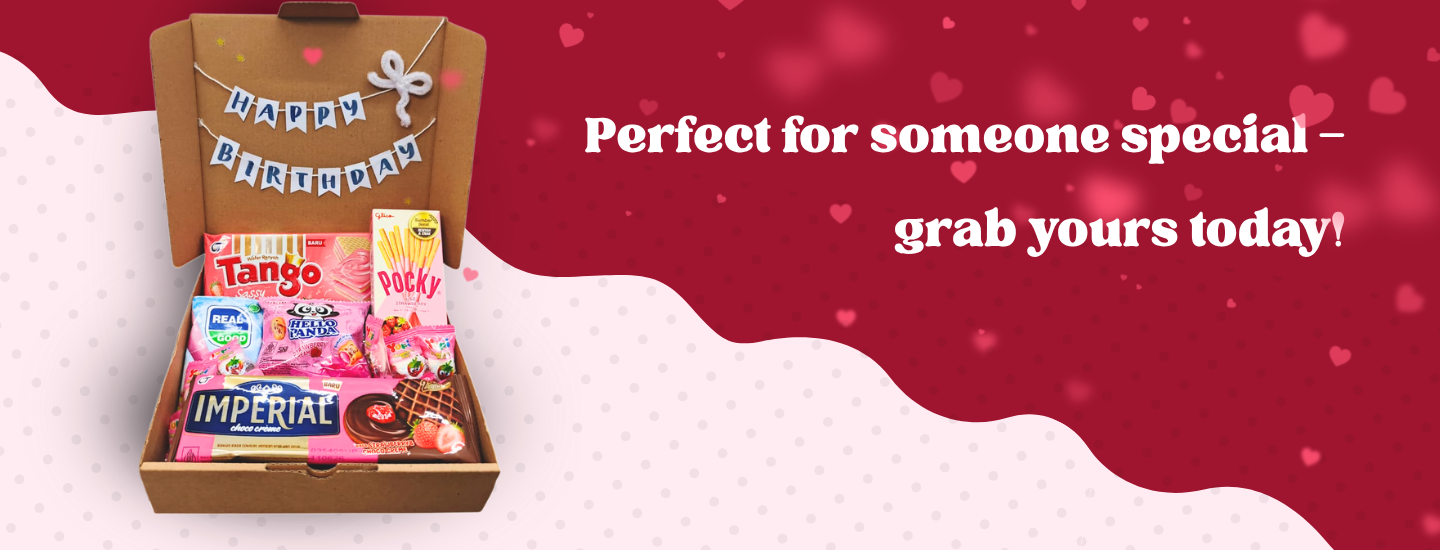
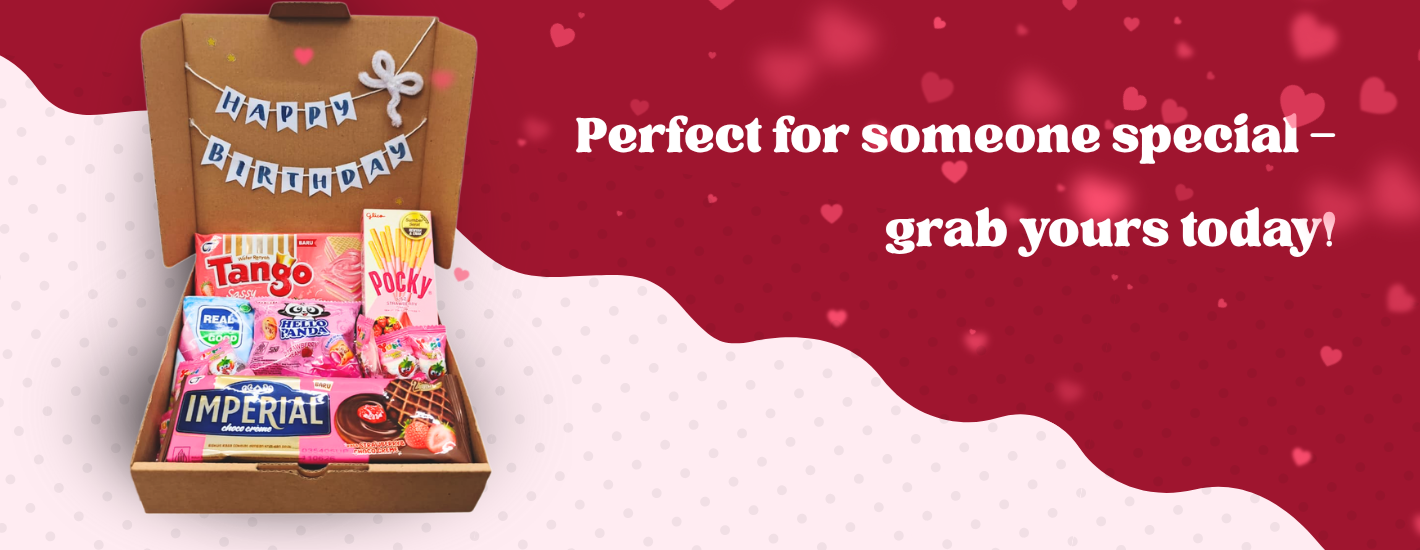
Add login and registration pages, update routing, and enhance carousel layout

diff --git a/src/pages/Admin/Kelola-pesanan.jsx b/src/pages/Admin/Kelola-pesanan.jsx
@@ -1,0 +1,68 @@
+import HeaderAdmin from "../components/header-admin"
+import { Button } from "../../components/ui/button"
+import {
+  Table,
+  TableBody,
+  TableCaption,
+  TableCell,
+  TableHead,
+  TableHeader,
+  TableRow,
+} from "@/components/ui/table"
+
+function KelolaPesanan(){
+    const orders = [
+        {
+            id: "001",
+            name: "Birthday Hampers-Blue",
+            stock: 8,
+            price: 25000,
+            status: "active"
+        },
+        {
+            id: "002",
+            name: "Birthday Hampers-Pink",
+            stock: 8,
+            price: 25000,
+            status: "active"
+        },
+    ]
+
+    return(
+        <div className="static top-0 pt-32 h-[1920px] w-screen left-0 bg-[url(/images/Background.png)]">
+            <HeaderAdmin/>
+            <div className="flex flex-col w-[1096px] mr-auto ml-auto">
+                <div className="flex flex-row items-center">
+                    <h3 className="font-bold">Kelola Pesanan</h3>
+                </div>
+                {/* Tabel */}
+                <div className="w-[1096px] min-h-[100px] h-auto bg-[#9F152F] rounded-[12px] mt-5 p-10">
+                    <Table className="rounded-[12px] bg-white">
+                        <TableHeader>
+                            <TableRow>
+                            <TableHead className="w-[100px] text-center">ID Pesanan</TableHead>
+                            <TableHead className="text-center">Nama produk</TableHead>
+                            <TableHead className="text-center">Jumlah Stok</TableHead>
+                            <TableHead className="text-center">Harga jual</TableHead>
+                            <TableHead className="text-center">Status Penjualan</TableHead>
+                            </TableRow>
+                        </TableHeader>
+                        <TableBody>
+                            {orders.map((orders) => (
+                                <TableRow>
+                                    <TableCell className="font-medium">{orders.id}</TableCell>
+                                    <TableCell>{orders.name}</TableCell>
+                                    <TableCell>{orders.stock}</TableCell>
+                                    <TableCell>{orders.price}</TableCell>
+                                    <TableCell className="text-center">{orders.status}</TableCell>
+                                </TableRow>
+                            ))}
+                        </TableBody>
+                    </Table>
+                </div>
+            </div>
+        </div>
+    )
+}
+
+export default KelolaPesanan

diff --git a/src/pages/RegistPage.jsx b/src/pages/RegistPage.jsx
@@ -1,0 +1,45 @@
+import { useNavigate } from "react-router-dom";
+import { Button } from "../components/ui/button";
+import { Input } from "../components/ui/input";
+import Header from "./components/header";
+
+function RegistPage() {
+    const navigate = useNavigate()
+
+    const handleLogin = () => {
+        navigate("/login")
+    }
+
+    return(
+        <div className="static top-0 left-0 mt-10 bg-[url(/images/Background.png)] w-screen">
+            <Header/>
+            <div className="flex flex-row top-0">
+                <img src="/images/registImg.png" alt="" />
+                <div className="flex flex-col mt-20 ml-[80px]">
+                    <p className="flex text-2xl font-bold items-start">Register</p>
+                    <hr />
+                    <div className="flex flex-col items-start mt-[26px]">
+                        <p>Username</p>
+                        <Input id="username" className="w-[409px] h-[47px] bg-[#D9D9D9] shadow-xl/20" />
+                    </div>
+                    <div className="flex flex-col items-start mt-[10px]">
+                        <p>Email</p>
+                        <Input id="email" type="password" className="w-[409px] h-[47px] bg-[#D9D9D9] shadow-xl/20"/>
+                    </div>
+                    <div className="flex flex-col items-start mt-[10px]">
+                        <p>Password</p>
+                        <Input id="password" type="password" className="w-[409px] h-[47px] bg-[#D9D9D9] shadow-xl/20"/>
+                    </div>
+                    <div className="flex flex-col items-start mt-[10px]">
+                        <p>Confirm Password</p>
+                        <Input id="password" type="password" className="w-[409px] h-[47px] bg-[#D9D9D9] shadow-xl/20"/>
+                    </div>
+                    <Button className="!bg-[#F4476D] mt-[59px] w-[409px] h-[47px] bg-[#D9D9D9] shadow-xl/20">REGISTER</Button>
+                    <p className="mt-[35px]">Already have account? <a onClick={() => handleLogin()}>Sign In</a></p>
+                </div>
+            </div>
+        </div>
+    )
+}
+
+export default RegistPage

diff --git a/src/pages/LoginPage.jsx b/src/pages/LoginPage.jsx
@@ -1,0 +1,41 @@
+import { useNavigate } from "react-router-dom"
+import { Button } from "../components/ui/button"
+import { Input } from "../components/ui/input"
+import Header from "./components/header"
+
+function LoginPage(){
+    const navigate = useNavigate()
+
+    const handleRegist = () => {
+        navigate("/register")
+    }
+
+    return(
+        <div className="static top-0 left-0 mt-10 bg-[url(/images/Background.png)] w-screen">
+            <Header/>
+            <div className="flex flex-row top-0">
+                <img src="/images/loginImg.png" alt="" />
+                <div className="flex flex-col mt-20 ml-[80px]">
+                    <p className="flex text-2xl font-bold items-start">Login</p>
+                    <hr />
+                    <div className="flex flex-col items-start mt-[26px]">
+                        <p>Username</p>
+                        <Input id="username" className="w-[409px] h-[47px] bg-[#D9D9D9] shadow-xl/20" />
+                    </div>
+                    <div className="flex flex-col items-start mt-[26px]">
+                        <p>Password</p>
+                        <Input id="password" type="password" className="w-[409px] h-[47px] bg-[#D9D9D9] shadow-xl/20"/>
+                    </div>
+                    <Button className="!bg-[#F4476D] mt-[50px] w-[409px] h-[47px] bg-[#D9D9D9] shadow-xl/20">LOGIN</Button>
+                    <div className="flex flex-col items-center mt-[26px]">
+                        <p>or Sign In with</p>
+                        <Button className="!bg-[#FF7070] flex flex-row justify-center items-center mt-[26px] w-[200px] h-[47px] shadow-xl/20"><img src="/logo/icon_google.png" alt="" /> Google</Button>
+                        <p className="mt-[35px]">New Here? <a onClick={() => handleRegist()}>Create new account</a></p>
+                    </div>
+                </div>
+            </div>
+        </div>
+    )
+}
+
+export default LoginPage

diff --git a/src/pages/components/header.jsx b/src/pages/components/header.jsx
@@ -8,6 +8,14 @@ function Header(){
         navigate("/")
     }
 
+    const handleLogin = () => {
+        navigate("/login")
+    }
+
+    const handleRegist = () => {
+        navigate("/register")
+    }
+
     const scrollTo = (id) => {
         const element = document.getElementById(id)
         const navbarHeight = 90
@@ -32,8 +40,8 @@ function Header(){
                     <Button className="!bg-transparent !text-white hover:!decoration-underline" >How to Buy</Button>
                     <Button className="!bg-transparent !text-white hover:!decoration-underline" >About Us</Button>
                     <Button className="!bg-transparent !text-white hover:!decoration-underline" >Contact Us</Button>
-                    <Button className="text-black" >Sign In</Button>
-                    <Button className="text-black" >Sign Up</Button>
+                    <Button className="text-black" onClick={() => handleLogin()}>Sign In</Button>
+                    <Button className="text-black" onClick={() => handleRegist()}>Sign Up</Button>
                 </div>
             </div>
         </div>

diff --git a/src/components/ui/input.jsx b/src/components/ui/input.jsx
@@ -1,0 +1,24 @@
+import * as React from "react"
+
+import { cn } from "@/lib/utils"
+
+function Input({
+  className,
+  type,
+  ...props
+}) {
+  return (
+    <input
+      type={type}
+      data-slot="input"
+      className={cn(
+        "file:text-foreground placeholder:text-muted-foreground selection:bg-primary selection:text-primary-foreground dark:bg-input/30 border-input h-9 w-full min-w-0 rounded-md border bg-transparent px-3 py-1 text-base shadow-xs transition-[color,box-shadow] outline-none file:inline-flex file:h-7 file:border-0 file:bg-transparent file:text-sm file:font-medium disabled:pointer-events-none disabled:cursor-not-allowed disabled:opacity-50 md:text-sm",
+        "focus-visible:border-ring focus-visible:ring-ring/50 focus-visible:ring-[3px]",
+        "aria-invalid:ring-destructive/20 dark:aria-invalid:ring-destructive/40 aria-invalid:border-destructive",
+        className
+      )}
+      {...props} />
+  );
+}
+
+export { Input }

diff --git a/src/pages/components/footer.jsx b/src/pages/components/footer.jsx
@@ -1,0 +1,20 @@
+import { Button } from "../../components/ui/button"
+
+function Footer(){
+    return(
+        <div className="">
+            <footer className="flex flex-col items-center justify-center mt-10 h-[170px] w-full bg-[#9f152f] text-white">
+                <h2 className="font-bold">Find us on :</h2>
+                <div className="flex flex-row gap-3 mt-2">
+                <Button className="!bg-transparent">Instagram</Button>
+                <Button className="!bg-transparent">Twitter</Button>
+                <Button className="!bg-transparent">Facebook</Button>
+                <Button className="!bg-transparent">Shopee</Button>
+                </div>
+                <h3 className="mt-2">Bingkizz.in @ 2025</h3>
+            </footer>
+        </div>
+    )
+}
+
+export default Footer

diff --git a/src/pages/components/hero-section.jsx b/src/pages/components/hero-section.jsx
@@ -10,13 +10,13 @@ import Autoplay from "embla-carousel-autoplay"
 
 function HeroSection(){
     return(
-        <div id="HERO" className="flex mt-22 left-0 max-w-screen">
+        <div id="HERO" className="flex mt-22 content-center w-full">
             <Carousel plugins={[
                 Autoplay({
                     delay: 3000,
                 })
             ]}>
-                <CarouselContent className="max-w-screen">
+                <CarouselContent className="w-full">
                     <CarouselItem><img src="/carousel/Carousel-1.png" alt="" /></CarouselItem>
                     <CarouselItem><img src="/carousel/Carousel-2.png" alt="" /></CarouselItem>
                     <CarouselItem><img src="/carousel/Carousel-3.png" alt="" /></CarouselItem>

diff --git a/src/routes/AppRouter.jsx b/src/routes/AppRouter.jsx
@@ -3,12 +3,17 @@ import DetailPage from "../pages/DetailPage";
 import BingkizzinWeb from "../pages/BingkizzinWeb";
 import DashboardAdmin from "../pages/Admin/Dashboard-Admin";
 import KelolaProduk from "../pages/Admin/Kelola-produk";
+import LoginPage from "../pages/LoginPage";
+import RegistPage from "../pages/RegistPage";
 
 function AppRouter() {
   return (
     <Router>
       <Routes>
         <Route path="/" element={<BingkizzinWeb />} />
+        <Route path="/login" element={<LoginPage/>}/>
+        <Route path="/register" element={<RegistPage/>}/>
+
         <Route path="/detail-product" element={<DetailPage />} />
         <Route path="/dashboard-admin" element={<DashboardAdmin/>}/>
         <Route path="/kelola-produk" element={<KelolaProduk/>}/>

diff --git a/src/pages/BingkizzinWeb.jsx b/src/pages/BingkizzinWeb.jsx
@@ -1,15 +1,18 @@
+import { Button } from "../components/ui/button"
+import Footer from "./components/footer"
 import Header from "./components/header"
 import HeroSection from "./components/hero-section"
 import Products from "./components/products"
 
-
-
 function BingkizzinWeb(){
     return(
-        <div className="static top-0 h-[1920px] max-w-screen left-0 bg-[url(/images/Background.png)]">
+        <div className="flex flex-col w-full min-h-screen bg-[url(/images/Background.png)] bg-cover bg-no-repeat">
             <Header/>
-            <HeroSection/>
-            <Products/>
+            <main className="flex-grow">
+                <HeroSection/>
+                <Products/>
+            </main>
+            <Footer/>
         </div>
     )
 }

diff --git a/src/components/ui/carousel.jsx b/src/components/ui/carousel.jsx
@@ -113,7 +113,7 @@ function CarouselContent({
       <div
         className={cn(
           "flex",
-          orientation === "horizontal" ? "-ml-4" : "-mt-4 flex-col",
+          orientation === "horizontal" ? "-ml-0" : "-mt-4 flex-col",
           className
         )}
         {...props} />
@@ -134,7 +134,7 @@ function CarouselItem({
       data-slot="carousel-item"
       className={cn(
         "min-w-0 shrink-0 grow-0 basis-full",
-        orientation === "horizontal" ? "pl-4" : "pt-4",
+        orientation === "horizontal" ? "pl-0" : "pt-0",
         className
       )}
       {...props} />

diff --git a/src/pages/components/products.jsx b/src/pages/components/products.jsx
@@ -11,7 +11,7 @@ function Products(){
     return(
         <div>
             {/* Our Products */}
-            <div id="PRODUCT" className="content-center w-screen left-0 h-[70px] bg-[#9f152f]">
+            <div id="PRODUCT" className="content-center w-full left-0 h-[70px] bg-[#9f152f]">
                 <h2 className="text-white font-bold text-2xl" >Our Products</h2>
             </div>
             {/* Product Card */}
